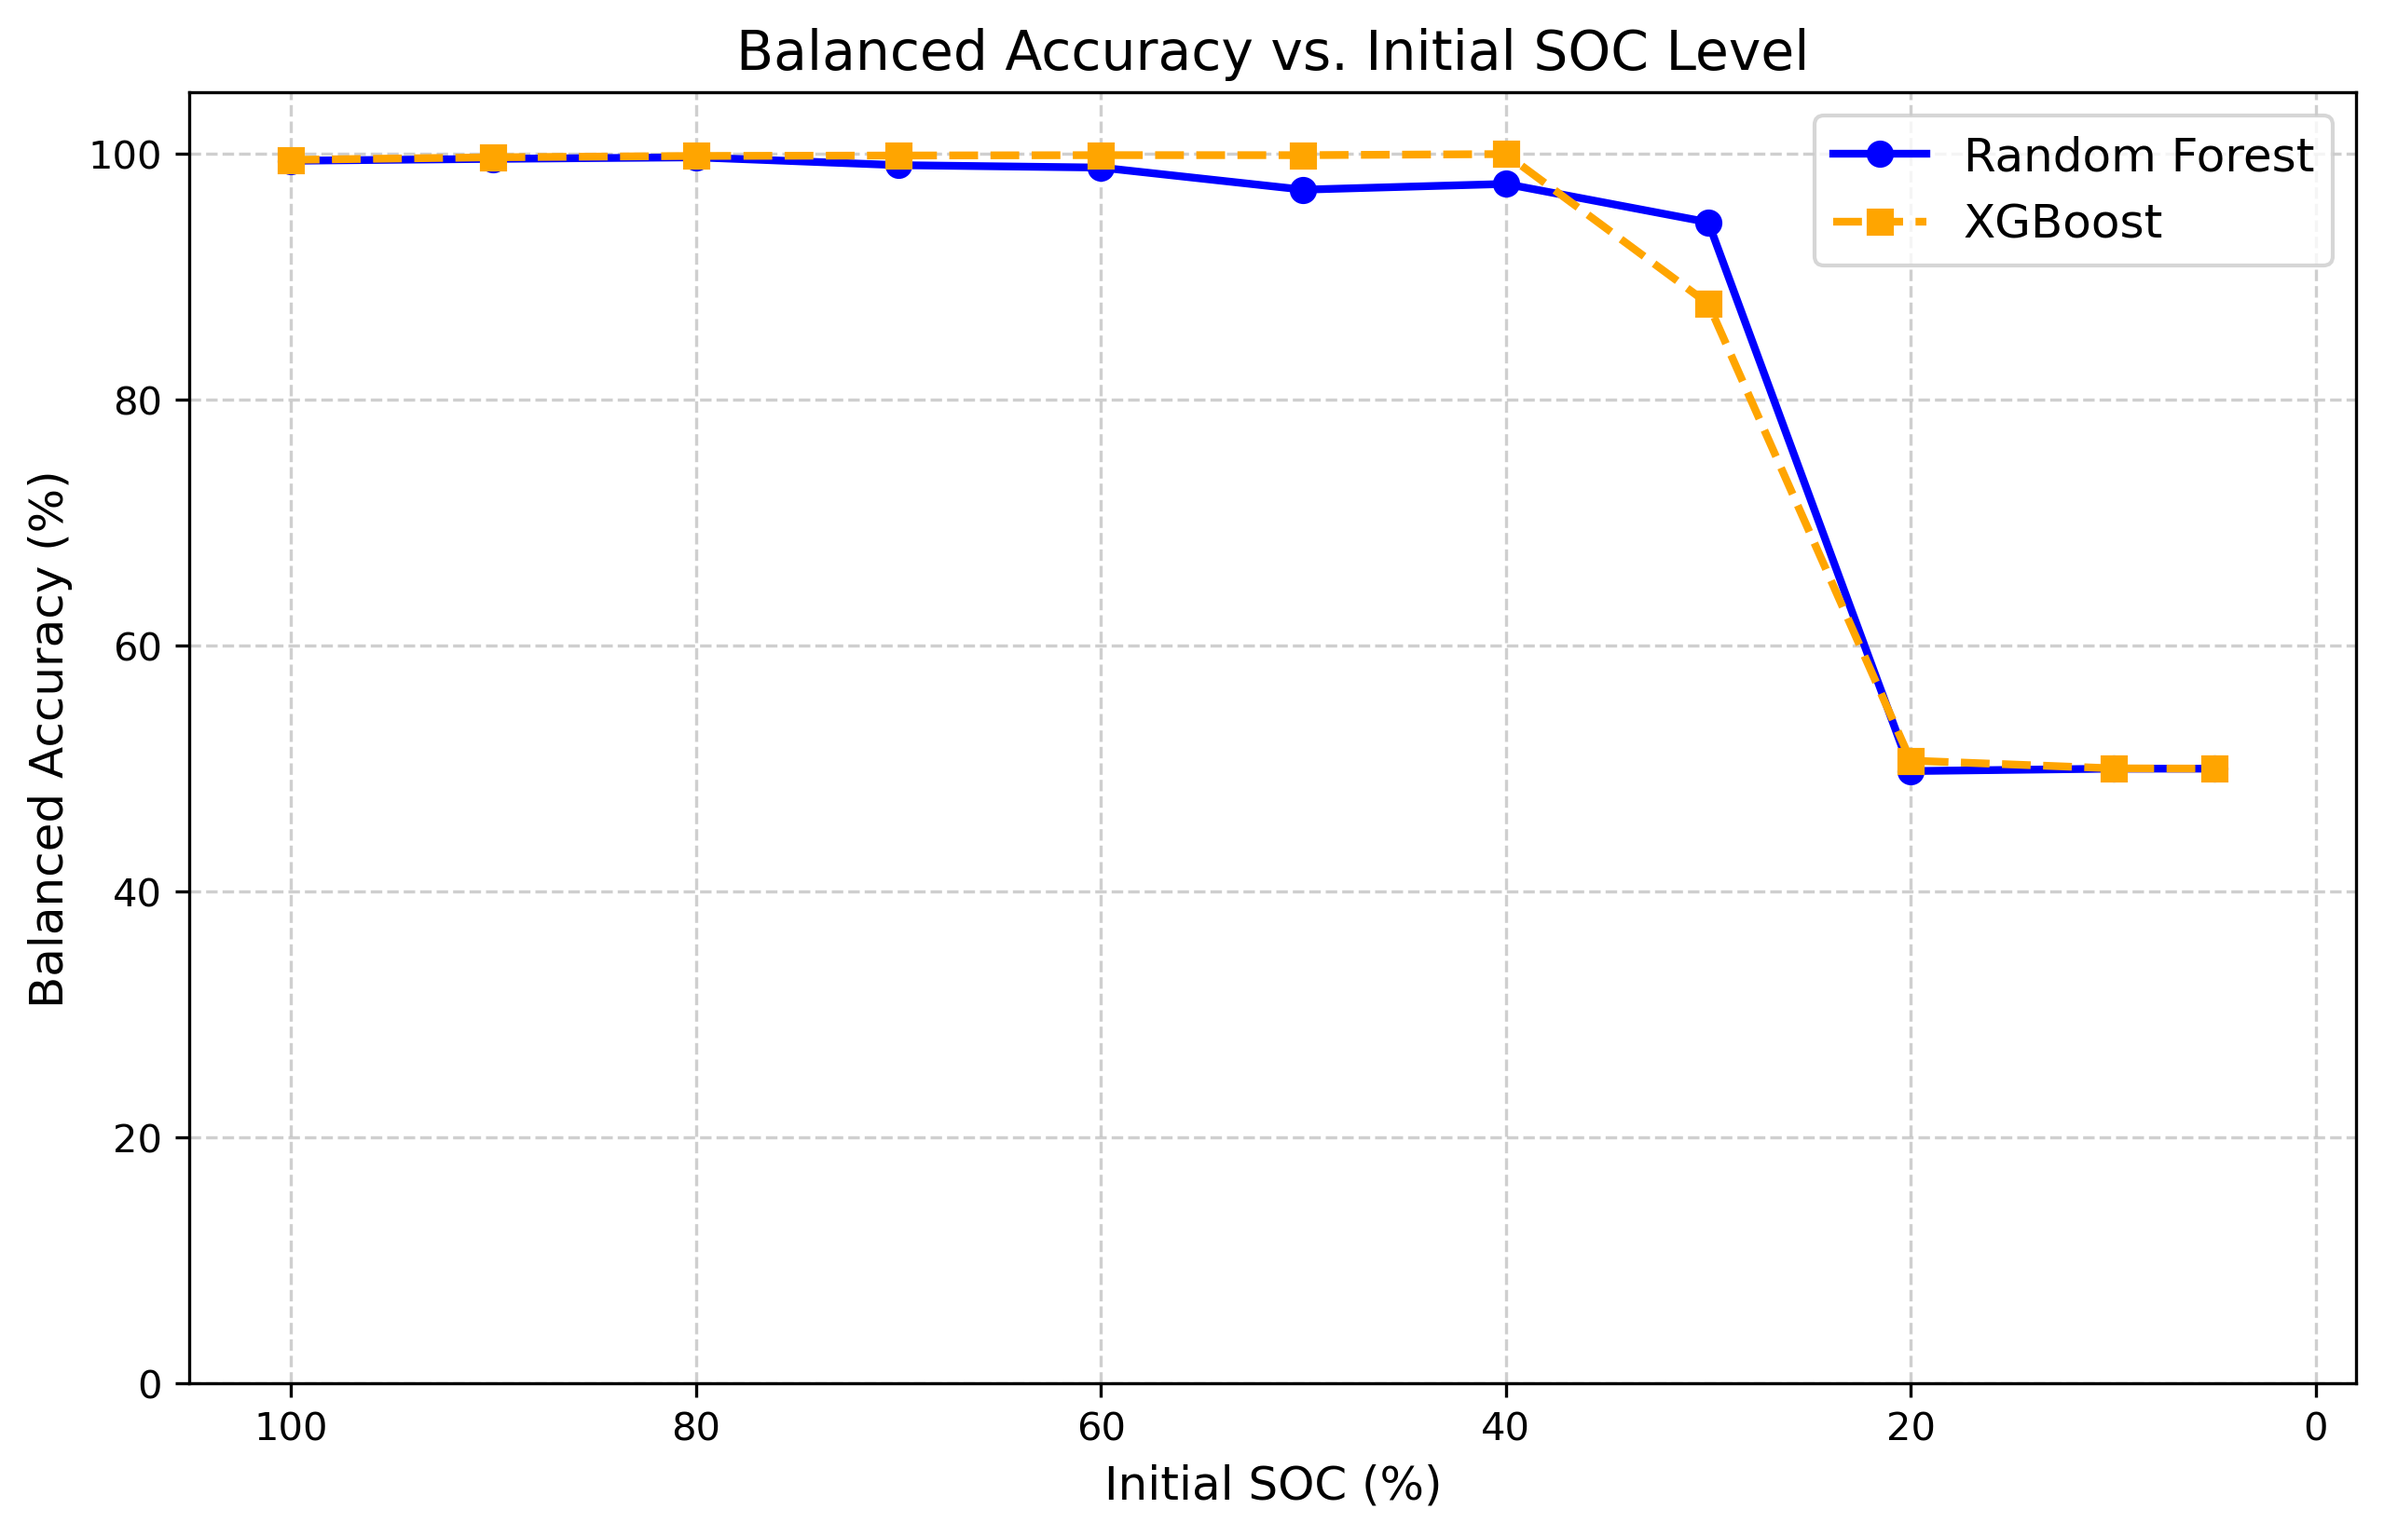
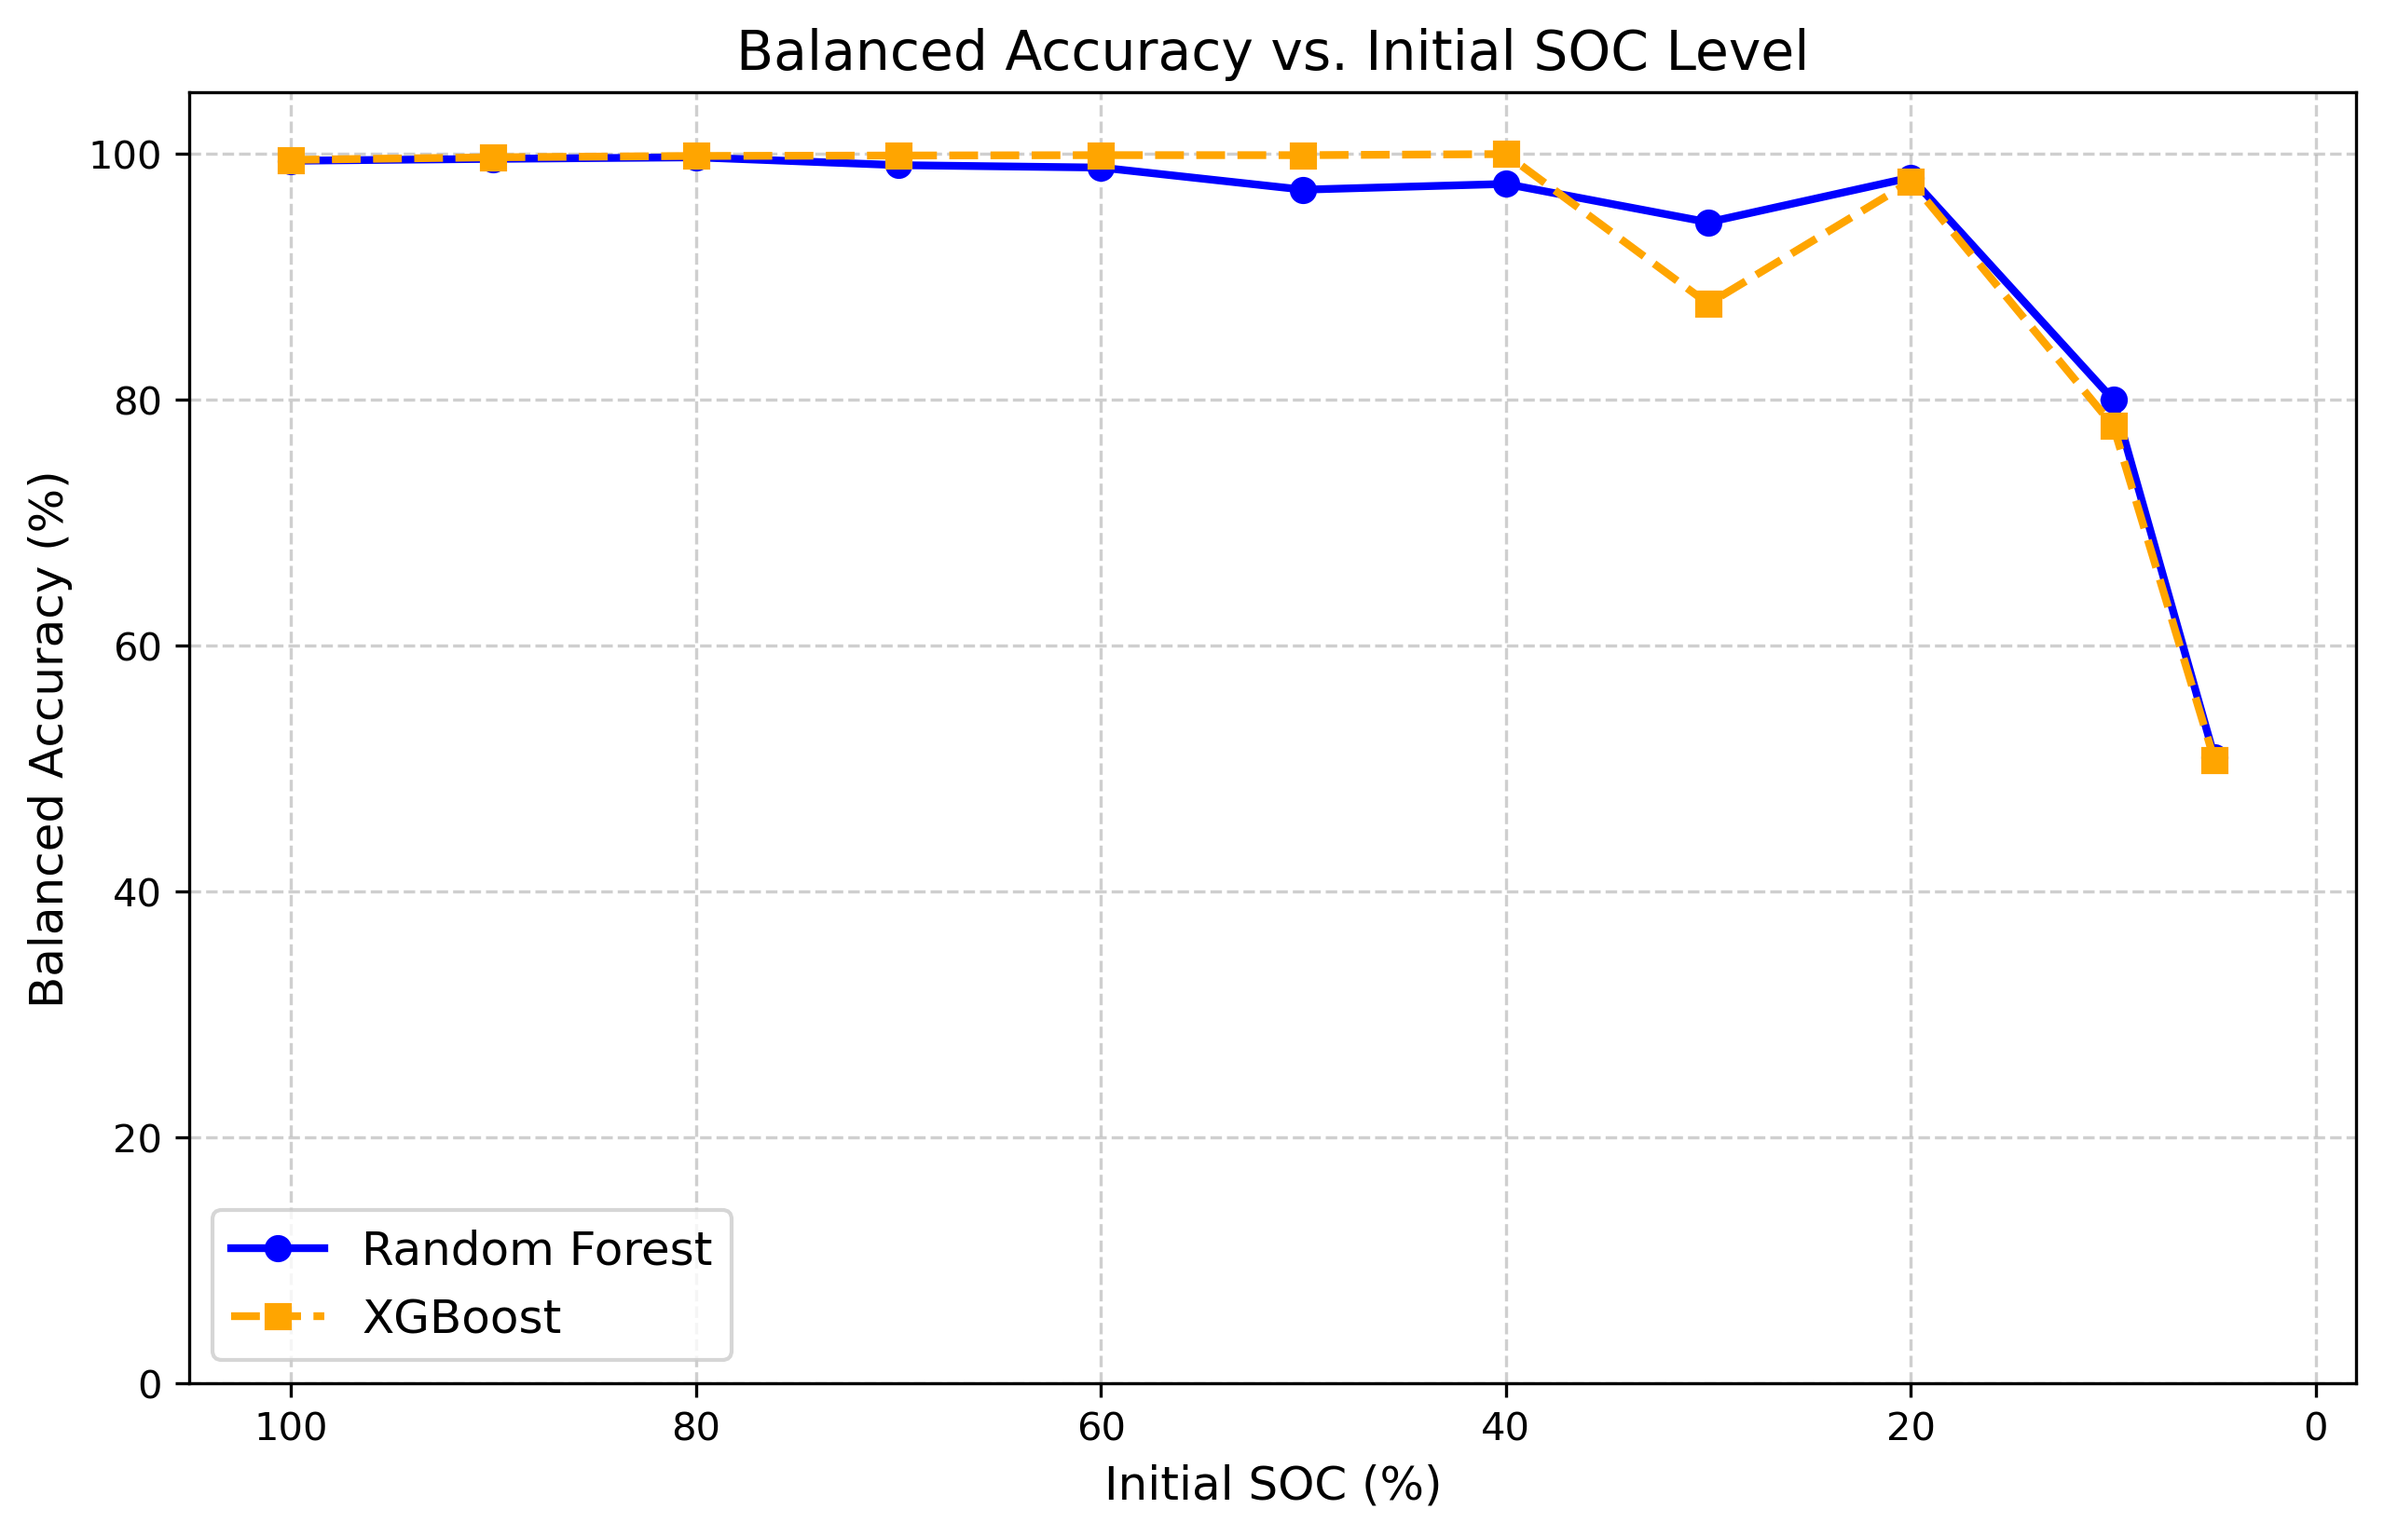
Improved accuracy for lower SOC values, great accuracy down to inital SOC=0.2

diff --git a/optimize_empa_2/evaluate.py b/optimize_empa_2/evaluate.py
@@ -40,9 +40,126 @@ REAL_RAW_DIR = os.path.join(PROJECT_DIR, "data", "raw")
 FEATURES_DIR = os.path.join(SCRIPT_DIR, "features")
 GROUPBY_COLS = ['Chemistry', 'Size_Multiplier', 'SOH', 'Initial_SOC', 'Variation_ID']
 
+def create_features_by_capacity_fraction(raw_csv_path, n_bins=100):
+    """
+    Resamplar varje battericykel till ett fast antal punkter (n_bins) 
+    baserat på dess egna relativa kapacitetsförlopp (0 till 1).
+    Fungerar perfekt för korta/trunkerade cyklar vid låg SOC!
+    """
+    df = pd.read_csv(raw_csv_path, low_memory=False)
+    
+    group_cols = ['Chemistry', 'Size_Multiplier', 'SOH', 'Initial_SOC', 'Variation_ID']
+    feature_rows = []
+    
+    for keys, group in df.groupby(group_cols):
+        group = group.sort_values('Time [s]')
+        
+        voltage = group['Voltage [V]'].values
+        capacity = group['Capacity [A.h]'].values if 'Capacity [A.h]' in group.columns else group['Time [s]'].values
+        
+        if len(voltage) < 5:
+            continue
+            
+        cap_min = capacity[0]
+        cap_max = capacity[-1]
+        
+        if cap_max == cap_min:
+            continue
+            
+        cap_normalized = (capacity - cap_min) / (cap_max - cap_min)
+        target_grid = np.linspace(0.0, 1.0, n_bins)
+        resampled_voltage = np.interp(target_grid, cap_normalized, voltage)
+        
+        row_dict = {
+            'Chemistry': keys[0],
+            'Size_Multiplier': keys[1],
+            'SOH': keys[2],
+            'Initial_SOC': keys[3],
+            'Variation_ID': keys[4]
+        }
+        
+        for i, v_val in enumerate(resampled_voltage):
+            row_dict[f'V_frac_{i}'] = v_val
+            
+        feature_rows.append(row_dict)
+        
+    features_df = pd.DataFrame(feature_rows)
+    features_df['Battery_ID'] = features_df.groupby(group_cols).ngroup()
+    
+    return features_df
+
 
 def extract_features_for_soc(real_raw_path, soc_val):
-    """Extraherar eller laddar cachade features för en specifik SOC-nivå. Detta ska snabba på runtimes vid upprepade körningar, som i SOC-sweep."""
+    """Extraherar eller laddar cachade features för en specifik SOC-nivå."""
+    soc_int = int(round(soc_val * 100))
+    
+    # Vi ger cache-filen ett annat namn om vi kör kapacitetsfraktioner så de inte krockar
+    cache_suffix = "capacity_fraction" if soc_val <= 0.2 else "voltage_bins"
+    feature_cache_path = os.path.join(FEATURES_DIR, f"real_features_soc_{soc_int}_{cache_suffix}.csv")
+    
+    if os.path.exists(feature_cache_path):
+        print(f"\n--- Laddar cachade features ({cache_suffix}) för Initial_SOC = {soc_int}% ---")
+        features_df = pd.read_csv(feature_cache_path, low_memory=False)
+        
+        if soc_val <= 0.2:
+            all_bin_cols = [c for c in features_df.columns if c.startswith('V_frac_')]
+        else:
+            all_bin_cols = sorted(
+                (c for c in features_df.columns if c.startswith('dV_dQ_V_')),
+                key=lambda c: -float(c.split('_')[3]),
+            )
+        return features_df, all_bin_cols
+
+    print(f"\n--- Extraherar features ({cache_suffix}) för Initial_SOC = {soc_int}% ---")
+    
+    sim_df = pd.read_csv(SYNTHETIC_RAW_CSV)
+    sim_df["DataKind"] = "synthetic"
+    
+    real_df = pd.read_csv(real_raw_path, low_memory=False)
+    real_df["DataKind"] = "real"
+    
+    combined = pd.concat([sim_df, real_df], ignore_index=True)
+    temp_raw_csv = os.path.join(SCRIPT_DIR, f"temp_raw_soc_{soc_int}.csv")
+    combined.to_csv(temp_raw_csv, index=False)
+
+    # --- HÄR ÄR SKILJELINJEN ---
+    if soc_val <= 0.2:
+        # Använd kapacitetsnormalisering för låga SOC (<= 20%)
+        features_df = create_features_by_capacity_fraction(temp_raw_csv, n_bins=100)
+    else:
+        # Använd vanliga spänningsbins för högre SOC
+        features_df = create_features_by_voltage_bins(temp_raw_csv, output_dir=FEATURES_DIR, exclude_final_transition=True)
+
+        raw_df = pd.read_csv(temp_raw_csv, low_memory=False)
+        raw_df['Battery_ID'] = raw_df.groupby(GROUPBY_COLS).ngroup()
+        battery_to_kind = raw_df.drop_duplicates('Battery_ID').set_index('Battery_ID')['DataKind']
+        features_df['DataKind'] = features_df['Battery_ID'].map(battery_to_kind)
+
+    # Försäkra dig om att DataKind finns med oavsett metod (om den inte sattes i funktionen)
+    if 'DataKind' not in features_df.columns:
+        raw_df = pd.read_csv(temp_raw_csv, low_memory=False)
+        raw_df['Battery_ID'] = raw_df.groupby(GROUPBY_COLS).ngroup()
+        battery_to_kind = raw_df.drop_duplicates('Battery_ID').set_index('Battery_ID')['DataKind']
+        features_df['DataKind'] = features_df['Battery_ID'].map(battery_to_kind)
+
+    if soc_val <= 0.2:
+        all_bin_cols = [c for c in features_df.columns if c.startswith('V_frac_')]
+    else:
+        all_bin_cols = sorted(
+            (c for c in features_df.columns if c.startswith('dV_dQ_V_')),
+            key=lambda c: -float(c.split('_')[3]),
+        )
+    
+    os.makedirs(FEATURES_DIR, exist_ok=True)
+    features_df.to_csv(feature_cache_path, index=False)
+    
+    if os.path.exists(temp_raw_csv):
+        os.remove(temp_raw_csv)
+        
+    return features_df, all_bin_cols
+
+"""def extract_features_for_soc(real_raw_path, soc_val):
+    # Extraherar eller laddar cachade features för en specifik SOC-nivå. Detta ska snabba på runtimes vid upprepade körningar, som i SOC-sweep.
     soc_int = int(round(soc_val * 100))
     feature_cache_path = os.path.join(FEATURES_DIR, f"real_features_soc_{soc_int}.csv")
     
@@ -88,12 +205,13 @@ def extract_features_for_soc(real_raw_path, soc_val):
         os.remove(temp_raw_csv)
         
     return features_df, all_bin_cols
-
+"""
 
 def run_multi_soc_evaluation():
     """Kör träning och utvärdering för varje SOC-nivå separat för RF och XGB."""
     soc_levels = [1.0, 0.9, 0.8, 0.7, 0.6, 0.5, 0.4, 0.3, 0.2, 0.1, 0.05]
-    
+    # Snabbare körning
+    # soc_levels = [0.5, 0.4, 0.3, 0.2, 0.1, 0.05]
     results = {
         "SOC": [],
         "RF_Balanced_Accuracy": [],
@@ -114,12 +232,23 @@ def run_multi_soc_evaluation():
         if not bin_cols:
             print(f"Inga giltiga bins för SOC {int(soc*100)}%.")
             continue
-
         metadata_cols = ['Battery_ID', 'Chemistry', 'Size_Multiplier', 'SOH', 'Initial_SOC']
         keep_cols = [c for c in metadata_cols if c in features_df.columns] + bin_cols
 
-        synth_sub = features_df[features_df['DataKind'] == 'synthetic'][keep_cols].dropna(subset=bin_cols)
-        real_sub = features_df[features_df['DataKind'] == 'real'][keep_cols].dropna(subset=bin_cols)
+        # Skapa upp datamängderna INNAN dropna för att kunna kika på dem
+        synth_sub_raw = features_df[features_df['DataKind'] == 'synthetic'][keep_cols]
+        real_sub_raw = features_df[features_df['DataKind'] == 'real'][keep_cols]
+
+        """  # --- DIAGNOSTIK: Kika här innan dropna rensar bort allt ---
+        print(f"\n--- DIAGNOSTIK FÖR SOC {int(soc*100)}% ---")
+        print(f"Antal verkliga batterier före rensning: {len(real_sub_raw)}")
+        print("Antal giltiga (ej NaN) värden per spänningsbin i real_sub_raw:")
+        print(real_sub_raw[bin_cols].notna().sum().to_string())
+        # --------------------------------------------------------"""
+
+        # Nu rensar vi bort rader som saknar värden i binsen
+        synth_sub = synth_sub_raw.dropna(subset=bin_cols)
+        real_sub = real_sub_raw.dropna(subset=bin_cols)
 
         if len(synth_sub) == 0 or len(real_sub) == 0:
             print(f"För få rader kvar efter rensning för SOC {int(soc*100)}%.")

diff --git a/optimize_empa_2/feature_engineering.py b/optimize_empa_2/feature_engineering.py
@@ -133,6 +133,73 @@ def create_features_by_voltage_bins(input_csv, output_dir=None, min_chemistry_co
     return full_df
 
 
+
+import numpy as np
+import pandas as pd
+
+## NY FUNKTION FÖR ATT PUSHA UPP ACCURACY I FÖR LÅGA INITIAL SOC
+def create_features_by_capacity_fraction(raw_csv_path, n_bins=100):
+    """
+    Resamplar varje battericykel till ett fast antal punkter (n_bins) 
+    baserat på dess egna relativa kapacitetsförlopp (0 till 1).
+    Fungerar perfekt för korta/trunkerade cyklar vid låg SOC!
+    """
+    df = pd.read_csv(raw_csv_path, low_memory=False)
+    
+    # Identifiera unika batterier baserat på dina metadata-kolumner
+    group_cols = ['Chemistry', 'Size_Multiplier', 'SOH', 'Initial_SOC', 'Variation_ID']
+    
+    feature_rows = []
+    
+    for keys, group in df.groupby(group_cols):
+        # Sortera kronologiskt efter tid om det behövs
+        group = group.sort_values('Time [s]')
+        
+        voltage = group['Voltage [V]'].values
+        capacity = group['Capacity [A.h]'].values if 'Capacity [A.h]' in group.columns else group['Time [s]'].values
+        
+        # Om kurven är för kort, hoppa över den
+        if len(voltage) < 5:
+            continue
+            
+        # Normalisera kapaciteten från 0 till 1 för denna cykel
+        cap_min = capacity[0]
+        cap_max = capacity[-1]
+        
+        if cap_max == cap_min:
+            continue
+            
+        cap_normalized = (capacity - cap_min) / (cap_max - cap_min)
+        
+        # Skapa en fast grid från 0.0 till 1.0 (t.ex. 100 punkter)
+        target_grid = np.linspace(0.0, 1.0, n_bins)
+        
+        # Interpolera spänningen på det fasta griden
+        resampled_voltage = np.interp(target_grid, cap_normalized, voltage)
+        
+        # Bygg raden med features + metadata
+        row_dict = {
+            'Chemistry': keys[0],
+            'Size_Multiplier': keys[1],
+            'SOH': keys[2],
+            'Initial_SOC': keys[3],
+            'Variation_ID': keys[4]
+        }
+        
+        # Lägg till de interpolerade spänningspunkterna som features
+        for i, v_val in enumerate(resampled_voltage):
+            row_dict[f'V_frac_{i}'] = v_val
+            
+        feature_rows.append(row_dict)
+        
+    features_df = pd.DataFrame(feature_rows)
+    
+    # Skapa ett Battery_ID för att matcha din pipeline
+    features_df['Battery_ID'] = features_df.groupby(group_cols).ngroup()
+    
+    return features_df
+
+
 if __name__ == "__main__":
     input_file = os.path.join("data", "default", "raw", "synthetic_battery_data.csv")
     create_features_by_voltage_bins(input_file)
